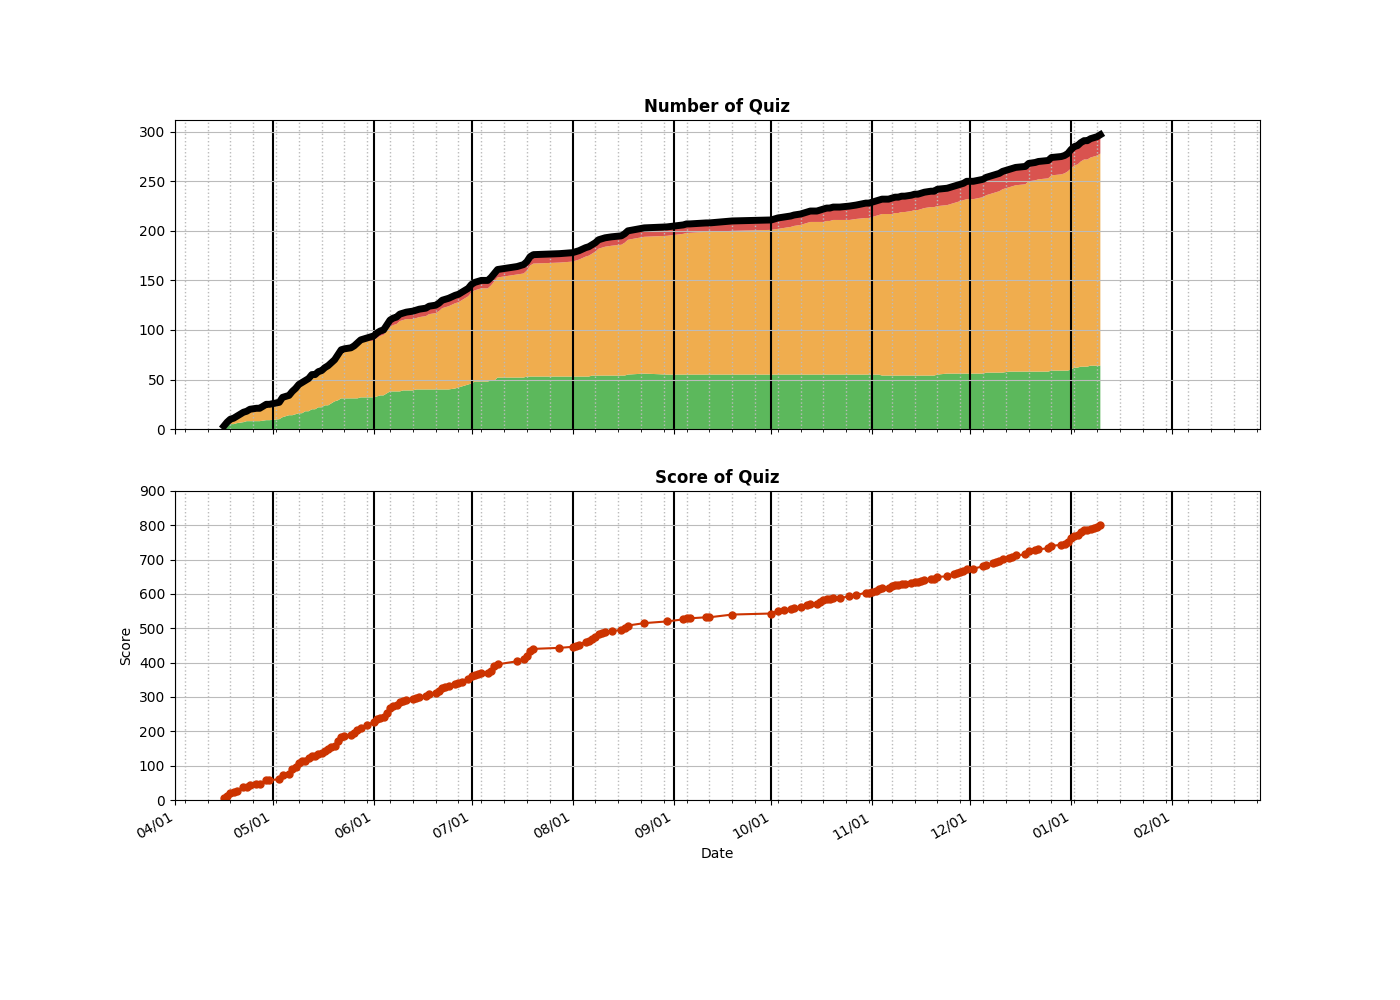
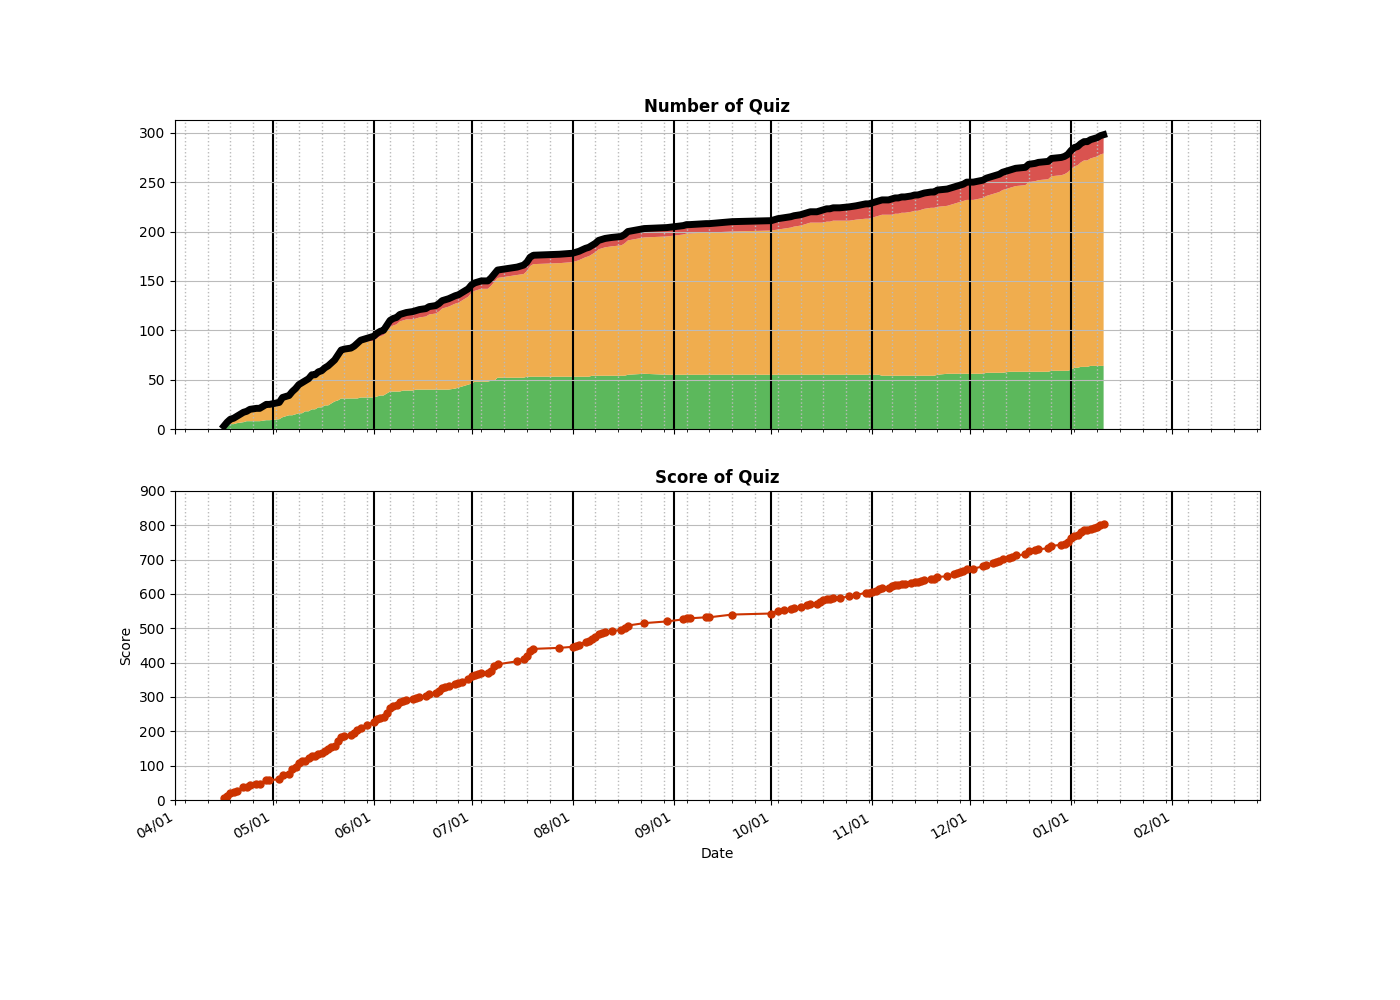
Added __1525__Number of Good Ways to Split a String.py

diff --git a/algo/HashMap/__1525__Number of Good Ways to Split a String.py b/algo/HashMap/__1525__Number of Good Ways to Split a String.py
@@ -1,0 +1,20 @@
+class Solution:
+    
+    # Count in two set [O(n): 80%]
+    def numSplits(self, s: str) -> int:
+        if not s:
+            return 0
+        leftCount = collections.defaultdict(int)
+        rightCount = collections.defaultdict(int)
+        for ch in s:
+            rightCount[ch] += 1
+            
+        count = 0
+        for ch in s:
+            leftCount[ch] += 1
+            rightCount[ch] -= 1
+            if rightCount[ch] == 0:
+                del rightCount[ch]
+            if len(leftCount) == len(rightCount):
+                count += 1
+        return count

diff --git a/README.md b/README.md
@@ -157,7 +157,8 @@ algo
 │   ├── __0287__Find the Duplicate Number.py
 │   ├── __0290__Word Pattern.py
 │   ├── __0535__Encode and Decode TinyURL.py
-│   └── __0705__Design HashSet.py
+│   ├── __0705__Design HashSet.py
+│   └── __1525__Number of Good Ways to Split a String.py
 ├── Heap
 │   ├── __0215__Kth Largest Element in an Array.py
 │   ├── __0263__Ugly Number.py
@@ -336,7 +337,7 @@ algo
     ├── Countries.py
     └── SwitchingArray.py
 
-26 directories, 309 files
+26 directories, 310 files
 
 =====================================
 ============= Local Repo ============
@@ -631,6 +632,7 @@ __1395__Count Number of Teams.py
 __1429__First Unique Number.py
 __1448__Count Good Nodes in Binary Tree.py
 __1475__Final Prices With a Special Discount in a Shop.py
+__1525__Number of Good Ways to Split a String.py
 __1557__Minimum Number of Vertices to Reach All Nodes.py
 __1593__Split a String Into the Max Number of Unique Substrings.py
 __1711__Count Good Meals.py
@@ -639,7 +641,7 @@ __1905__Count Sub Islands.py
 __1937__Maximum Number of Points with Cost.py
 __2093__Minimum Cost to Reach City With Discounts.py
 =====================================
-Num of Python Practice:  297
+Num of Python Practice:  298
 
 
 =====================================
@@ -935,6 +937,7 @@ Num of Python Practice:  297
  1429 First Unique Number
  1448 Count Good Nodes in Binary Tree
  1475 Final Prices With a Special Discount in a Shop
+ 1525 Number of Good Ways to Split a String
  1557 Minimum Number of Vertices to Reach All Nodes
  1593 Split a String Into the Max Number of Unique Substrings
  1711 Count Good Meals
@@ -944,10 +947,10 @@ Num of Python Practice:  297
  2093 Minimum Cost to Reach City With Discounts
 =====================================
 Solved / Total (Easy)  :   64 /  540
-Solved / Total (Medium):  214 / 1140
+Solved / Total (Medium):  215 / 1140
 Solved / Total (Hard)  :   19 /  456
-Solved / Total (All)   :  297 / 2136
-Total Score            :  801
+Solved / Total (All)   :  298 / 2136
+Total Score            :  804
 =====================================
 
 ```
